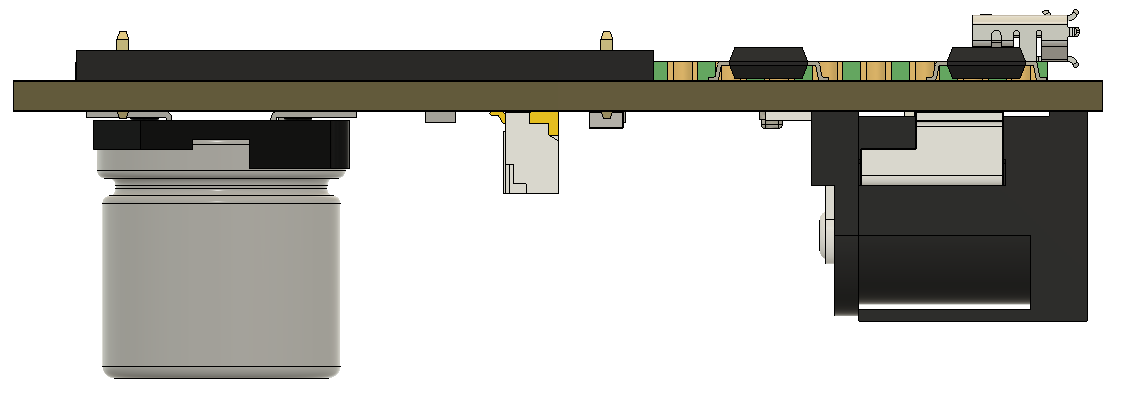
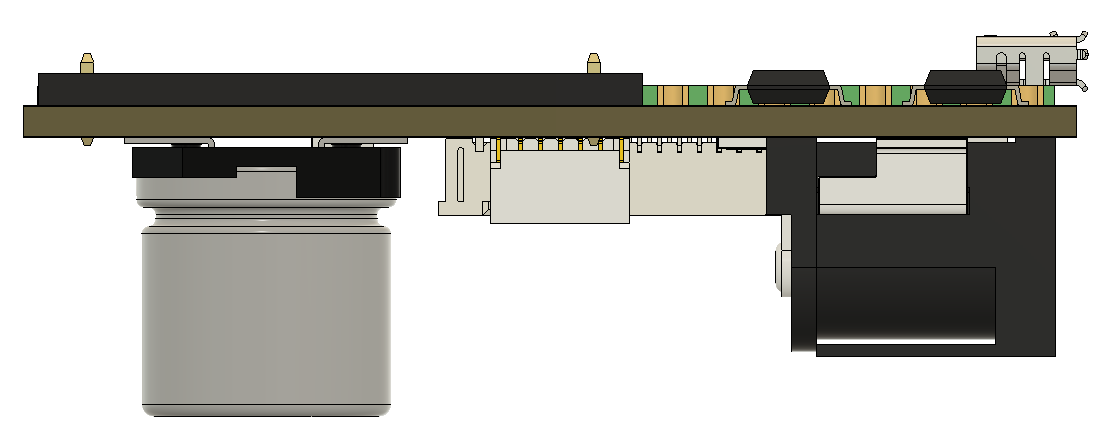
Updates to the README and PCB pictures.
Update with latest progress.

diff --git a/README.md b/README.md
@@ -52,8 +52,8 @@ This is to introduce drive-by-wire buttons for Mercedes-Benz. Specifically, it i
    - [Update Sun 9 May 2024](#update-sun-9-may-2024)
    - [Update Thu 27 Jun 2024](#update-thu-27-jun-2024)
    - [Update Sun 30 Jun 2024](#update-sun-30-jun-2024)
-   - [Update Mon 1 Jun 2024(#update-mon-1-jun-2024)
-   - [Update Sat 6 Jul 2024(#update-sat-6-jul-2024)
+   - [Update Mon 1 Jun 2024](#update-mon-1-jun-2024)
+   - [Update Sat 13 Jul 2024](#update-sat-13-jul-2024)
 6. [Additional information](#additional-information)
 
 ## Fingerprint scanner instead of Start button
@@ -146,28 +146,28 @@ Q: Can DriveByWire check CAN for certain buttons around the car
 
 # Pin layout for RaspberryPI 3-5, and Pico
 
-| Pin | Port    | Use                          |-| Pin | Port     | Use
-| --: | :------ | :--------------------------- |-| --: | :------- | :----------------------------- |
-|   1 | GPIO  0 | Button (Switch - N)          |-| 40  | VBUS     |                                |
-|   2 | GPIO  1 | Button (Switch - D)          |-| 39  | VSYS     |                                |
-|   3 | GND     |                              |-| 38  | GND      |                                |
-|   4 | GPIO  2 | Button (Switch - P)          |-| 37  | 3V3_EN   |                                |
-|   5 | GPIO  3 | Button (Switch - R)          |-| 36  | 3V3_OUT  |                                |
-|   6 | GPIO  4 | Debug (TX)                   |-| 35  | ADC_VREF | Actuator - +5V                 |
-|   7 | GPIO  5 | Debug (RX)                   |-| 34  | ADC2     |                                |
-|   8 | GND     |                              |-| 33  | AGND     | Actuator - GND                 |
-|   9 | GPIO  6 | Button (Telltale - P)        |-| 32  | ADC1     |                                |
-|  10 | GPIO  7 | Button (Telltale - R)        |-| 31  | ADC0     | Actuator - Potentiometer Brush |
-|  11 | GPIO  8 | Button (Telltale - N)        |-| 30  | RUN      |                                |
-|  12 | GPIO  9 | Button (Telltale - D)        |-| 29  | GPIO 22  | EIS Relay (#3 - start)         |
-|  13 | GND     | *[GPIO 29]*                  |-| 28  | GND      | *[GPIO 23]*                    |
-|  14 | GPIO 10 | Actuator - Motor Relay (#1)  |-| 27  | GPIO 21  | CAN #0 (RX)                    |
-|  15 | GPIO 11 | Actuator - Motor Relay (#2)  |-| 26  | GPIO 20  | CAN #0 (TX)                    |
-|  16 | GPIO 12 | Actuator - +5V/+12V select   |-| 25  | GPIO 19  | EIS Relay (#1 - steering lock) |
-|  17 | GPIO 13 | Fingerprint Scanner (WAKEUP) |-| 24  | GPIO 18  |                                |
-|  18 | GND     | *[GPIO 25]*                  |-| 23  | GND      | *[GPIO 24]*                    |
-|  19 | GPIO 14 | Status LED (Data OUT)        |-| 22  | GPIO 17  | Fingerprint Scanner (TX)       |
-|  20 | GPIO 15 | Status LED (Data IN)         |-| 21  | GPIO 16  | Fingerprint Scanner (RX)       |
+| Pin | Port    | Use                          | Pin | Port         | Use
+| --: | :------ | :--------------------------- | --: | :----------- | :----------------------------- |
+|   1 | GPIO  0 | Button (Switch - N)          | 40  | VBUS         |                                |
+|   2 | GPIO  1 | Button (Switch - D)          | 39  | VSYS         |                                |
+|   3 | GND     |                              | 38  | GND          |                                |
+|   4 | GPIO  2 | Button (Switch - P)          | 37  | 3V3_EN       |                                |
+|   5 | GPIO  3 | Button (Switch - R)          | 36  | 3V3_OUT      |                                |
+|   6 | GPIO  4 | Debug (TX)                   | 35  | ADC_VREF     | Actuator - +5V                 |
+|   7 | GPIO  5 | Debug (RX)                   | 34  | GPIO 28<br>ADC2  |                                |
+|   8 | GND     |                              | 33  | GND<br>AGND     | Actuator - GND                 |
+|   9 | GPIO  6 | Button (Telltale - P)        | 32  | GPIO 27<br>ADC1 |                                |
+|  10 | GPIO  7 | Button (Telltale - R)        | 31  | GPIO 26<br>ADC0 | Actuator - Potentiometer Brush |
+|  11 | GPIO  8 | Button (Telltale - N)        | 30  | RUN          |                                |
+|  12 | GPIO  9 | Button (Telltale - D)        | 29  | GPIO 22      | EIS Relay (#3 - start)         |
+|  13 | GND     | *[GPIO 29]*                  | 28  | GND          | *[GPIO 23]*                    |
+|  14 | GPIO 10 | Actuator - Motor Relay (#1)  | 27  | GPIO 21      | CAN #0 (RX)                    |
+|  15 | GPIO 11 | Actuator - Motor Relay (#2)  | 26  | GPIO 20      | CAN #0 (TX)                    |
+|  16 | GPIO 12 | Actuator - +5V/+12V select   | 25  | GPIO 19      | EIS Relay (#1 - steering lock) |
+|  17 | GPIO 13 | Fingerprint Scanner (WAKEUP) | 24  | GPIO 18      |                                |
+|  18 | GND     | *[GPIO 25]*                  | 23  | GND          | *[GPIO 24]*                    |
+|  19 | GPIO 14 | ~~Status LED (Data OUT)~~        | 22  | GPIO 17      | Fingerprint Scanner (TX)       |
+|  20 | GPIO 15 | Status LED (Data IN)         | 21  | GPIO 16      | Fingerprint Scanner (RX)       |
 
 LED | GPIO 25
 
@@ -176,6 +176,9 @@ LED | GPIO 25
 The different uses are specifically this way, because I need to consider UARTs/PIOs/ADC etc, and which pins they
 have connected to them. So it's not as .. "pretty" and simple as just throwing them in there and start using
 the ports..
+
+Not exactly sure what to use the `Data OUT` on the NeoPixel (Status LED) for, so have crossed out that
+pin for now. I'm not using it in the code..
 
 ## External contacts
 
@@ -189,10 +192,11 @@ the ports..
 
 ### Status LED
 
-* 2x Status LED (Data IN+OUT)
+* 1x Status LED (Data IN)
+* ~~1x Status LED (Data OUT)~~
 * 1x 3V3
 
-=> 3-pin
+=> 2-pin
 
 Or those two combined, [buttons and their LEDs and the status LED](https://www.ebay.co.uk/itm/174775342997).
 
@@ -296,6 +300,12 @@ Crossed out parts are things I either didn't buy or don't need. Yet. Which is wh
 I'm saving the list of [components for the PCB](https://www.mouser.com/ProjectManager/ProjectDetail.aspx?AccessID=d9a3d6382c)
 in a project list at Mouser. It's still a work in progress, so not quite correct yet.
 
+They don't have *everything* we need for a build. These are the parts that needs to be sourced from elsewhere. I'm using
+ThePieHut, but feel free to get the parts from wherever you feel most confortable with.
+
+* [DFRobot - DC-DC Buck Converter 7-24V to 5V 4A](https://thepihut.com/products/dc-dc-buck-converter-7-24v-to-5v-4a?variant=39865627607235)
+* [BCRobotics - 2 Channel Isolated Relay Breakout – 5V](https://thepihut.com/products/2-channel-isolated-relay-breakout-5v?variant=42529923924163)
+
 ## Actuation
 
 | Part | Price |
@@ -370,14 +380,14 @@ and that chassis connector, which minimizes the size of the motherboard connecto
 | [Half-Size Breadboard](https://thepihut.com/products/breadboard-400-point-clear?variant=31986026381374) | £3 * 3
 | [Breadboard for Pico](https://thepihut.com/products/breadboard-for-pico?variant=39819276386499) | £4
 | [Short Plug Headers](https://thepihut.com/products/short-plug-headers-for-raspberry-pi-pico-2-x-20-pin-male?variant=42182974505155) | £1
-| [Tactile Switch Buttons](https://thepihut.com/products/tactile-switch-buttons-6mm-tall-x-10-pack?variant=27739414097) | £3
+| ~~[Tactile Switch Buttons](https://thepihut.com/products/tactile-switch-buttons-6mm-tall-x-10-pack?variant=27739414097)~~ | ~~£3~~
 | [Breakout for 6-pin JST SH-Style Connector - Side Entry](https://thepihut.com/products/breakout-for-6-pin-jst-sh-style-connector-side-entry?variant=42438253871299) | £1
 | [Extra-long break-away 0.1" 16-pin strip male header (5 pieces)](https://thepihut.com/products/extra-long-break-away-0-1-16-pin-strip-male-header-5-pieces?variant=27740420881) | £3
 | [220V Power Supply Adapter (12V/10A)](https://www.ebay.co.uk/itm/234147120198?var=533767190848) | £21
-| [DB9 Breakout Board PCB – Male](https://thepihut.com/products/db9-breakout-board-pcb-male?variant=41727856148675) | £2
+| ~~[DB9 Breakout Board PCB – Male](https://thepihut.com/products/db9-breakout-board-pcb-male?variant=41727856148675)~~ | ~~£2~~
 | [Breadboard-friendly 2.1mm DC barrel jack](https://thepihut.com/products/breadboard-friendly-2-1mm-dc-barrel-jack?variant=27740417489) | £1
 | [In-line power switch for 2.1mm barrel jack](https://thepihut.com/products/in-line-power-switch-for-2-1mm-barrel-jack?variant=27739226065) | £2
-| [DB9 Right Angle MALE Connector - PCB Mount D-SUB](https://www.ebay.co.uk/itm/325261653847) | £3
+| ~~[DB9 Right Angle MALE Connector - PCB Mount D-SUB](https://www.ebay.co.uk/itm/325261653847)~~ | ~~£3~~
 | [Dupont Jump Wire F-F Jumper Breadboard Cable Lead -  6pin](https://www.ebay.co.uk/itm/275827705804?var=577580216871) | £2
 | [Dupont Jump Wire F-F Jumper Breadboard Cable Lead - 10pin](https://www.ebay.co.uk/itm/275827705804?var=577580216855) | £2
 | [Dupont Jump Wire M-M Jumper Breadboard Cable Lead - 10cm](https://www.ebay.co.uk/itm/275268807202?var=575537821821) | £8
@@ -473,8 +483,10 @@ This is the part of CAN-bus from the big circuit diagram. Still working on it, s
 ### CAN-bus wiring on bread board
 
 This is the bread board for the CAN-bus. Still missing a few components, but it's getting there.
+The red wires are just there to show and remind me where I need to put the capacitors. Also, the resonator
+is missing, but should be with me "shortly".
 
-![CAN-bus wiring on bread board](./2024-07-06%2019.44.27.jpg)
+![CAN-bus wiring on bread board](./2024-07-13%2011.41.02.jpg)
 
 ## PCB
 
@@ -513,6 +525,7 @@ hardware.
 * [How to read, write and verify fingerprint with the fingerprint scanner](https://github.com/FransUrbo/pico-rust-test_3-FP_SCANNER)
 * [How to control the three MOSFET "relays"](https://github.com/FransUrbo/pico-rust-test_4-MOSFET_RELAYS)
 * [How to setup and trigger the built-in watchdog on the RPi](https://github.com/FransUrbo/pico-rust-test_6-WATCHDOG-LED)
+* [How to read and write to the CAN-bus and the display](https://github.com/FransUrbo/pico-rust-test_7-CAN_BUS)
 
 ## DriveByWire code
 
@@ -530,24 +543,30 @@ It's a day old, and I've done some modifications to the code since them, but thi
 well.
 
 And this is what it [looked like in action](https://www.dropbox.com/scl/fi/nsdj958atposke2wdfzk9/2024-05-03-20.12.23.mov?rlkey=e7vu1sx3g0xffbefloeaspzul&st=kw81bt22&dl=0).
-They where to big for GitHub, so had to put them on my Dropbox account.
+They where to big for GitHub, so had to put them on my Dropbox account. This was before I got the actuator,
+so it's only triggering the LEDs (which won't be in the final design).
+
+I have since got the actuator, but haven't made a video on controlling it, because I can't get it to be
+stable enough. Still working on that..
 
 ### Relays
 
 The yellow LED in the upper left corner of the box, that's connected to the MOSFET "relay", is "start the car".
 I *THINK* it is enough to send +12V to the ECU (**E**ngine **C**ontrol **U**nit) on the "start position" pin.
-We'll see, have to do some experimentation. In this car, I only have to trigger it for the ECU to take over and
-start the car. So I'm only turning on the MOSFET "relay" for a second. Should be more than enough.
+We'll see, have to do some experimentation. In this car, I only have to trigger it for half a second or so
+(just go to position 3 and quickly release) for the ECU to take over and start the car. So I'm only turning on
+the MOSFET "relay" for a second. Should be more than enough.
 
 **NOTE**: There might be an issue with the "blue" (the steering lock on/off) and the "green" (ignition switch
 on/off) relays. I'm not sure what happens if (when!?) power is lost to the device, OR if it crashes and the
 watchdog reboots it - for a few seconds those relays will be "off"! What happens if I'm driving and the igntion
 switch is disabled and the steering lock is enabled!?? The former might not be a problem, although the ECU
-might .. get confused. But the latter, the steering lock, if that's enabled,
-as in locks the steering wheel from turning, that will be **BAD**!!!
+might .. get confused. But the latter, the steering lock, if that's enabled, as in locks the steering wheel
+from turning, that will be **BAD**!!!
 
 I've considered using relays that stays in position and need a trigger to switch, but that might also cause
-problems - if they're "on" and I've turned the car off and walked away, then they'll do no good!
+problems - if they're "on" and I've turned the car (ignition) off (which will instantly cut power to the system)
+and walked away, then they'll do no good!
 
 ### Status LED
 
@@ -636,6 +655,17 @@ it draws "a lot" of power, will get hot.
 * Add new relay to control feed power (+5V/+12V) to the actuator to be able to control the
   speed at which it moves.
 * Fix a small issue with the CAN-bus adapter.
+
+## Update Sat 13 Jul 2024
+
+* Moved all the CAN bus components to the TOP side of the board. There's plenty of space there,
+  because the DC-DC converter isn't actually residing directly on the board, that's just the bad
+  3D model that I made :). So the resistors and capacitors for the CAN-bus can reside under there.
+  It also doesn't make the board any .. "prettier", but..
+* The CAN-bus controller is getting under way. Got it almost completely wired up on the breadboard,
+  I'm just missing the 16MHz resonator, which should be with me in a few days.
+  Still need to do the coding for it, which will initially be in a different project. See [Code testing and setup](#code-testing-and-setup).
+  It's currently empty, but as soon as the resonator arrives, I'll start working on that part.
 
 # Additional information
 
